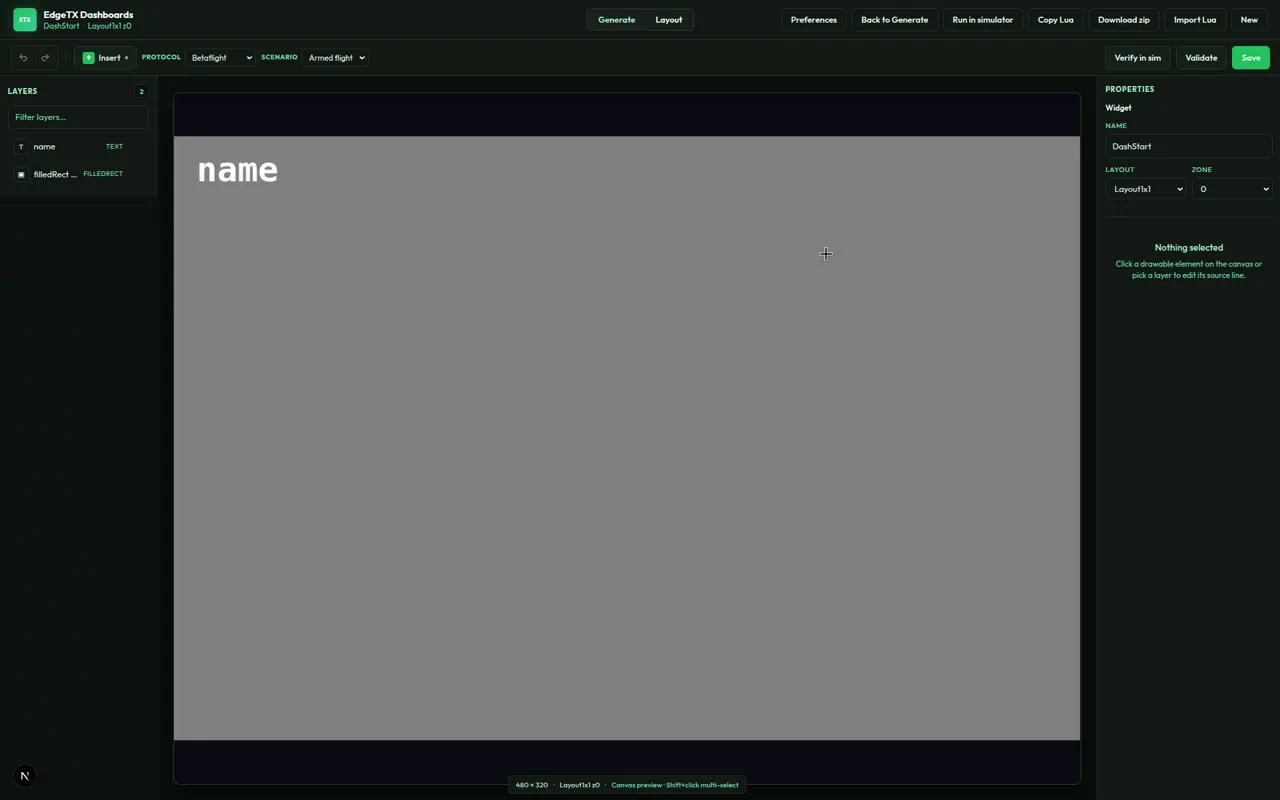
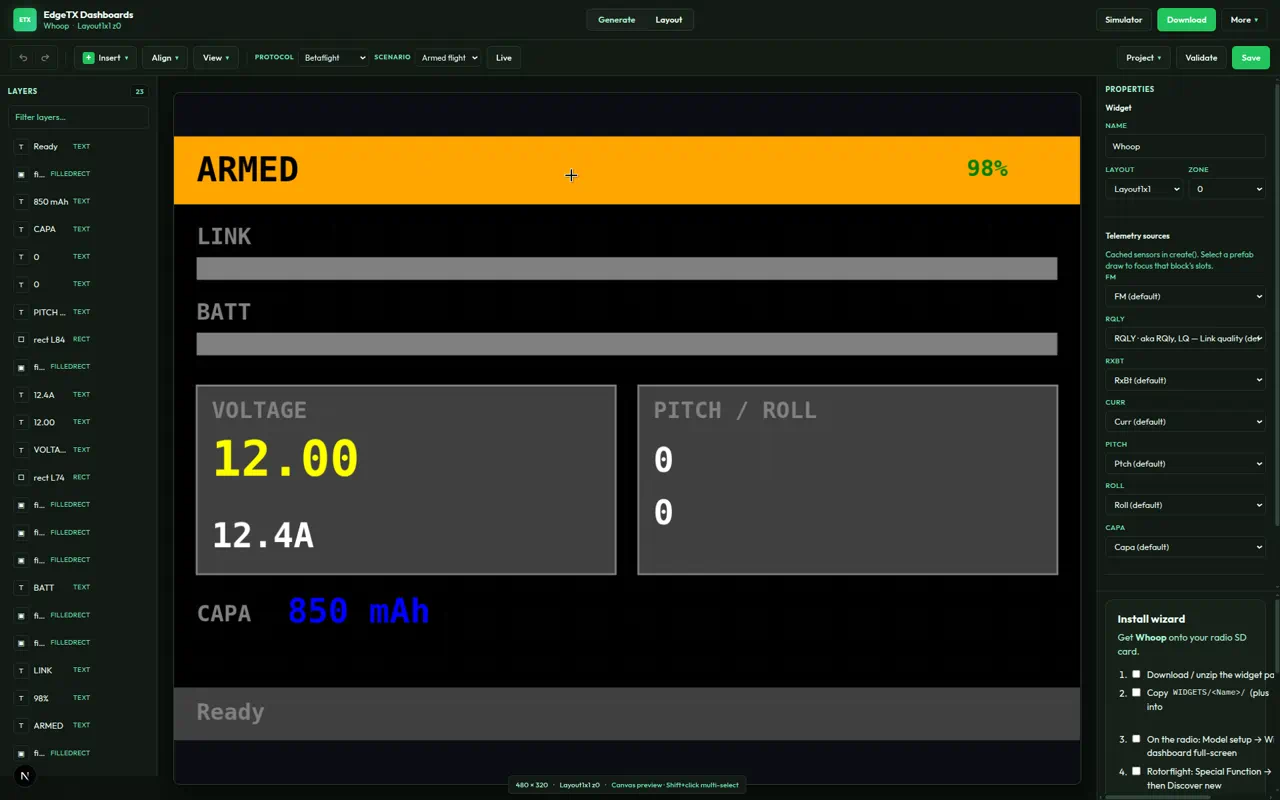
Refresh README screenshots for current Generate, Layout, and Insert UI
Regenerate product shots against the live app (template gallery thumbs,
prefab Insert previews, whoop Layout boards, Preferences with all themes)
and document the extra screens plus thirteen UI themes.

diff --git a/README.md b/README.md
@@ -7,11 +7,11 @@ Generate validated EdgeTX Lua dashboards for color LCD radios from a plain-langu
 **Optional extras:** companion Tool / Telemetry scripts (battery selector, flight logger, and more).
 
 <p align="center">
-  <img src="docs/screenshots/readme-generate-dark.png" alt="Generate page in Dark theme with chats, templates, and preview panel" width="920" />
+  <img src="docs/screenshots/readme-generate-dark.png" alt="Generate page in Dark theme with chats, template gallery thumbnails, and preview panel" width="920" />
 </p>
 
 <p align="center">
-  <sub>Generate · Dark theme</sub>
+  <sub>Generate · Dark theme · template gallery with live board thumbs</sub>
 </p>
 
 ## Highlights
@@ -19,18 +19,26 @@ Generate validated EdgeTX Lua dashboards for color LCD radios from a plain-langu
 - **Describe → Preview → Layout → Download** in one product shell
 - Cursor agent writes `main.lua` (and optional companion scripts) against real EdgeTX rules
 - In-browser **EdgeTX TX15 WASM** preview with mock CRSF telemetry
-- Visual **Layout** editor: layers, properties, multi-select, telemetry bind, sim verify
-- **Seven UI themes** (LCD canvas stays dark in every theme)
+- Visual **Layout** editor: layers, properties, multi-select, telemetry bind, Insert prefabs with preview thumbs, sim verify
+- **Thirteen UI themes** (LCD canvas stays dark in every theme)
 - **Preferences → AI** for a browser Cursor API key or server `CURSOR_API_KEY`
-- Desktop installers for **Windows / macOS / Linux** built on every green `main` run
+- Desktop installers for **Windows / macOS / Linux** (manual Actions workflow)
 
 ## Tour
 
 ### Generate
 
-Chat to describe layout, sensors, and style. Start from a template or type freely. The agent validates Lua before packaging, then streams a live preview in the right panel.
+Chat to describe layout, sensors, and style. Start from a template (each card shows a TX15 preview PNG) or type freely. The agent validates Lua before packaging, then streams a live preview in the right panel.
 
 Attach reference screenshots to prompts (PNG, JPEG, WebP, GIF; up to 4 images, 4 MB each).
+
+<p align="center">
+  <img src="docs/screenshots/readme-generate-gallery.png" alt="Generate template gallery with PNG board thumbnails" width="900" />
+</p>
+
+<p align="center">
+  <sub>Template gallery · PNG board thumbs</sub>
+</p>
 
 <p align="center">
   <img src="docs/screenshots/readme-generate-ocean.png" alt="Generate page in Ocean theme" width="720" />
@@ -44,22 +52,24 @@ Attach reference screenshots to prompts (PNG, JPEG, WebP, GIF; up to 4 images, 4
 
 <p align="center">
   <img src="docs/screenshots/readme-generate-light.png" alt="Generate page in Light theme" width="720" />
+  &nbsp;
+  <img src="docs/screenshots/readme-generate-ember.png" alt="Generate page in Ember theme" width="720" />
 </p>
 
 <p align="center">
-  <sub>Light</sub>
+  <sub>Light · Ember</sub>
 </p>
 
 ### Layout editor
 
-Open **Layout** (or `/editor`) to nudge, resize, bind telemetry, insert draw objects, and verify on the dark LCD canvas.
+Open **Layout** (or `/editor`) to nudge, resize, bind telemetry, insert draw objects / prefab sections, and verify on the dark LCD canvas. Gallery templates open complete boards (whoop, freestyle, RF heli, and more).
 
 <p align="center">
-  <img src="docs/screenshots/readme-editor-dark.png" alt="Layout editor in Dark theme with layers, canvas, and properties" width="900" />
+  <img src="docs/screenshots/readme-editor-dark.png" alt="Layout editor in Dark theme with whoop board, layers, and properties" width="900" />
 </p>
 
 <p align="center">
-  <sub>Layout · Dark</sub>
+  <sub>Layout · Dark · whoop board</sub>
 </p>
 
 <p align="center">
@@ -74,18 +84,40 @@ Open **Layout** (or `/editor`) to nudge, resize, bind telemetry, insert draw obj
 
 <p align="center">
   <img src="docs/screenshots/readme-editor-light.png" alt="Layout editor in Light theme" width="720" />
+  &nbsp;
+  <img src="docs/screenshots/readme-editor-slate.png" alt="Layout editor in Slate theme" width="720" />
 </p>
 
 <p align="center">
-  <sub>Light</sub>
+  <sub>Light · Slate</sub>
+</p>
+
+### Insert prefabs
+
+**Insert** lists modular Rotorflight and Betaflight / CRSF sections with cropped PNG previews, plus full-board actions (whoop, freestyle, dense CRSF, RF heli electric/nitro).
+
+<p align="center">
+  <img src="docs/screenshots/readme-insert-prefabs.png" alt="Layout Insert menu showing Quad section prefabs with PNG thumbs" width="900" />
+</p>
+
+<p align="center">
+  <sub>Insert · Quad sections</sub>
+</p>
+
+<p align="center">
+  <img src="docs/screenshots/readme-editor-insert-rf.png" alt="Layout Insert menu showing Rotorflight heli prefabs with PNG thumbs" width="900" />
+</p>
+
+<p align="center">
+  <sub>Insert · Rotorflight sections</sub>
 </p>
 
 ### Themes
 
-**Preferences → Appearance** ships seven themes: Light, Dark, Midnight, Slate, Forest, Ocean, and High contrast. Themes apply across Generate and Layout. The radio LCD canvas stays dark everywhere.
+**Preferences → Appearance** ships thirteen themes: Light, Dark, Midnight, Slate, Forest, Ocean, High contrast, Graphite, Meadow, Fog, Ember, Volt, and Copper. Themes apply across Generate and Layout. The radio LCD canvas stays dark everywhere.
 
 <p align="center">
-  <img src="docs/screenshots/readme-preferences-themes.png" alt="Preferences Appearance tab with seven theme cards" width="760" />
+  <img src="docs/screenshots/readme-preferences-themes.png" alt="Preferences Appearance tab with theme cards" width="760" />
 </p>
 
 ### AI settings
@@ -112,7 +144,7 @@ You can still set `CURSOR_API_KEY` on the server. A browser key overrides it per
 
 ### Run in simulator
 
-From Layout, **Run in simulator** boots the WASM preview with the same mock telemetry as the canvas. Use **Open interactive sim** for touch, keys, and sticks (Esc to close).
+From Layout, **Simulator** boots the WASM preview with the same mock telemetry as the canvas. Use **Open interactive sim** for touch, keys, and sticks (Esc to close).
 
 <p align="center">
   <img src="docs/screenshots/readme-sim.png" alt="Run in simulator modal with WASM preview stage" width="760" />
